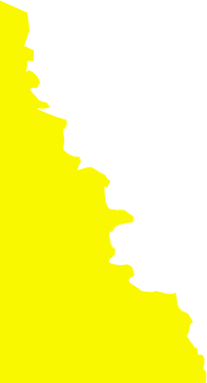
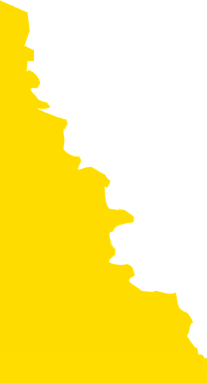
light redesign (colors)

diff --git a/public/css/screen.less b/public/css/screen.less
@@ -133,9 +133,10 @@ article nav a strong { margin: 7px 0 0 10px; background-position: 40px 5px; }
 	background: #ffdbd2 url('../graphics/meadow_bg.jpg') repeat-x;
 	height: 550px;
 	pointer-events: auto;
+	color: #742410;
 }
 #info h1 a {
-	color: #ffc5b5;
+	color: #ffac8b;
 }
 #info section {
 	float: right;
@@ -211,9 +212,10 @@ article nav a strong { margin: 7px 0 0 10px; background-position: 40px 5px; }
 	background: #ceeaff url('../graphics/wave_bg.jpg') repeat-x;
 	height: 450px;
 	pointer-events: auto;
+	color: #024a86;
 }
 #photo h1 a {
-	color: #d1ecff;
+	color: #71caf9;
 }
 #photo section {
 	width: 100%;
@@ -228,16 +230,17 @@ article nav a strong { margin: 7px 0 0 10px; background-position: 40px 5px; }
 			li {
 				display: none;
 				list-style: none;
-				margin-right: 12px;
-				width: 287px;
-				height: 216px;
-				background: url('../graphics/frame.png') no-repeat;
+				margin-right: 20px;
+				width: 279px;
+				height: 208px;
+				background: #fff;
+				box-shadow: 2px 2px 4px #3daaff;
 				float: left;
 				a {
 					display: block;
 					height: 187px;
 					overflow: hidden;
-					margin: 12px 0 0 16px;
+					margin: 10px 0 0 14px;
 				}
 				a, img {
 					width: 250px;
@@ -308,9 +311,10 @@ article nav a strong { margin: 7px 0 0 10px; background-position: 40px 5px; }
 	background: #fefdc2 url('../graphics/stones_bg.jpg') repeat-x;
 	height: 500px;
 	pointer-events: auto;
+	color: #856e02;
 }
 #occupancy h1 a {
-	color: #c1c531;
+	color: #faffa4;
 }
 #occupancy section #occupancy-slider { float: left; clear: left; width: 778px; margin: 60px 0 0 100px;}
 #occupancy section ul { float: left; width: 678px; }

diff --git a/public/css/calendar.less b/public/css/calendar.less
@@ -60,18 +60,11 @@
 	figure {
 		.calendar-legend {
 			padding: 0 5px;
-			border-width: 1px;
-			border-style: solid;
-		}
-		.calendar-legend-border(@color) {
-			border-color: darken(@color, 40%);
 		}
 		.calendar-legend-free {
-			.calendar-legend-border(@availableColor);
 			background: @availableColor;
 		}
 		.calendar-legend-occupied {
-			.calendar-legend-border(@occupiedColor);
 			background: @occupiedColor;
 		}
 	}
